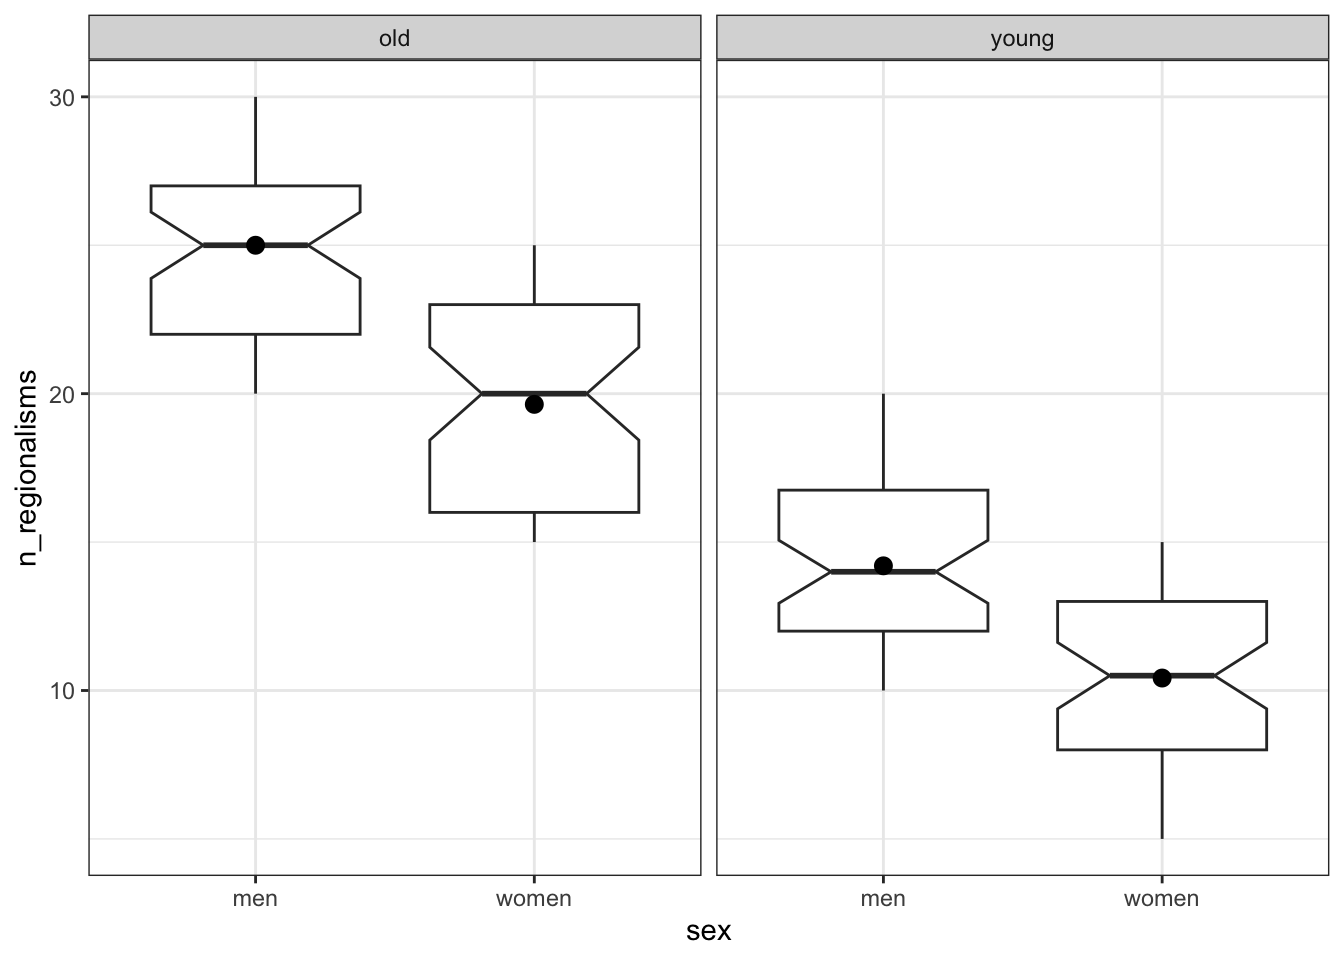
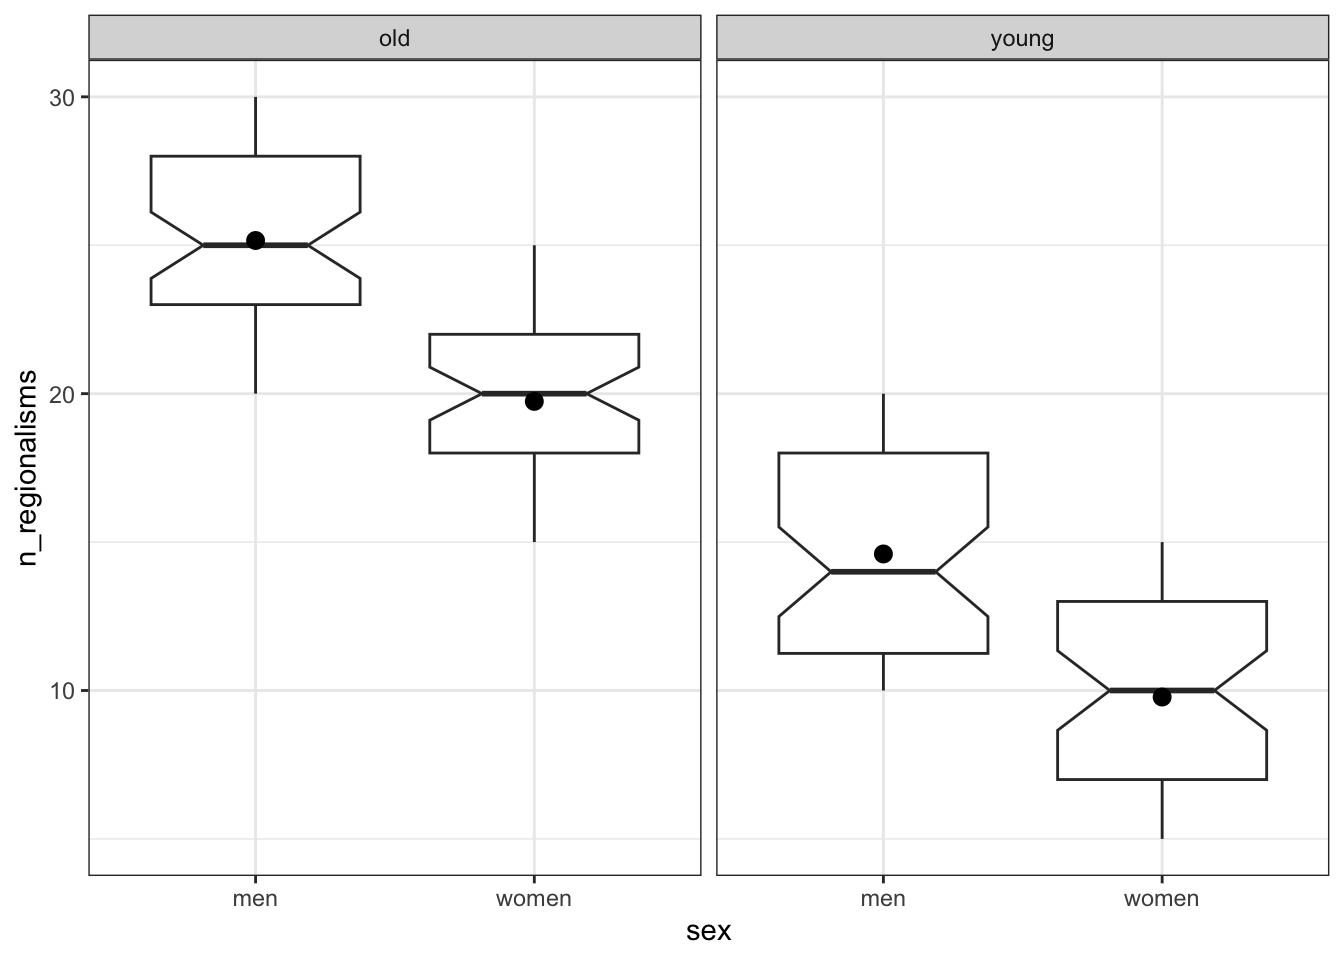
are

diff --git a/docs/lessons/PCA.html b/docs/lessons/PCA.html
@@ -431,29 +431,17 @@ pre > code.sourceCode > span > a:first-child::before { text-decoration: underlin
 </div>
 <p>Now, let’s load in the <code>reg_bnc</code> dataset from the <code>Rling</code> package, which has relative frequencies of different word classes in 69 subregisters of the British National Corpus, organized by six metaregisters: Academic, Fiction, News, Non-academic prose, Spoken, and Miscellaneous.</p>
 <div class="cell">
-<div class="sourceCode cell-code" id="cb2"><pre class="sourceCode r code-with-copy"><code class="sourceCode r"><span id="cb2-1"><a href="#cb2-1" aria-hidden="true" tabindex="-1"></a><span class="fu">library</span>(<span class="st">"tidyverse"</span>)</span></code><button title="Copy to Clipboard" class="code-copy-button"><i class="bi"></i></button></pre></div>
-<div class="cell-output cell-output-stderr">
-<pre><code>── Attaching core tidyverse packages ──────────────────────── tidyverse 2.0.0 ──
-✔ dplyr     1.1.4     ✔ readr     2.1.4
-✔ forcats   1.0.0     ✔ stringr   1.5.1
-✔ ggplot2   3.4.4     ✔ tibble    3.2.1
-✔ lubridate 1.9.2     ✔ tidyr     1.3.1
-✔ purrr     1.0.2     
-── Conflicts ────────────────────────────────────────── tidyverse_conflicts() ──
-✖ dplyr::filter() masks stats::filter()
-✖ dplyr::lag()    masks stats::lag()
-ℹ Use the conflicted package (&lt;http://conflicted.r-lib.org/&gt;) to force all conflicts to become errors</code></pre>
-</div>
-<div class="sourceCode cell-code" id="cb4"><pre class="sourceCode r code-with-copy"><code class="sourceCode r"><span id="cb4-1"><a href="#cb4-1" aria-hidden="true" tabindex="-1"></a><span class="fu">library</span>(<span class="st">"Rling"</span>)</span>
-<span id="cb4-2"><a href="#cb4-2" aria-hidden="true" tabindex="-1"></a><span class="fu">data</span>(reg_bnc)</span></code><button title="Copy to Clipboard" class="code-copy-button"><i class="bi"></i></button></pre></div>
+<div class="sourceCode cell-code" id="cb2"><pre class="sourceCode r code-with-copy"><code class="sourceCode r"><span id="cb2-1"><a href="#cb2-1" aria-hidden="true" tabindex="-1"></a><span class="fu">suppressPackageStartupMessages</span>(<span class="fu">library</span>(<span class="st">"tidyverse"</span>))</span>
+<span id="cb2-2"><a href="#cb2-2" aria-hidden="true" tabindex="-1"></a><span class="fu">library</span>(<span class="st">"Rling"</span>)</span>
+<span id="cb2-3"><a href="#cb2-3" aria-hidden="true" tabindex="-1"></a><span class="fu">data</span>(reg_bnc)</span></code><button title="Copy to Clipboard" class="code-copy-button"><i class="bi"></i></button></pre></div>
 </div>
 <p>In order to run PCA, there needs to be some multicollinearity, otherwise there’s no need to try to reduce the number of dimensions (aka. variables) in order to try to find underlying components.</p>
 <p>We can look at the correlations (Pearson’s <em>r</em>, to be exact) between all pairwise comparisons of variables. A general rule of thumb mentioned by Levshina is that the Pearson’s <em>r</em> correlations should have an absolute value of at least 0.3. Let’s take a look:</p>
 <div class="cell">
-<div class="sourceCode cell-code" id="cb5"><pre class="sourceCode r code-with-copy"><code class="sourceCode r"><span id="cb5-1"><a href="#cb5-1" aria-hidden="true" tabindex="-1"></a>reg_bnc <span class="sc">%&gt;%</span> </span>
-<span id="cb5-2"><a href="#cb5-2" aria-hidden="true" tabindex="-1"></a>  <span class="fu">select</span>(<span class="sc">-</span>Reg) <span class="sc">%&gt;%</span> <span class="co"># keep only continuous data types</span></span>
-<span id="cb5-3"><a href="#cb5-3" aria-hidden="true" tabindex="-1"></a>  <span class="fu">cor</span>() <span class="sc">%&gt;%</span> </span>
-<span id="cb5-4"><a href="#cb5-4" aria-hidden="true" tabindex="-1"></a>  <span class="fu">round</span>(<span class="dv">2</span>)</span></code><button title="Copy to Clipboard" class="code-copy-button"><i class="bi"></i></button></pre></div>
+<div class="sourceCode cell-code" id="cb3"><pre class="sourceCode r code-with-copy"><code class="sourceCode r"><span id="cb3-1"><a href="#cb3-1" aria-hidden="true" tabindex="-1"></a>reg_bnc <span class="sc">%&gt;%</span> </span>
+<span id="cb3-2"><a href="#cb3-2" aria-hidden="true" tabindex="-1"></a>  <span class="fu">select</span>(<span class="sc">-</span>Reg) <span class="sc">%&gt;%</span> <span class="co"># keep only continuous data types</span></span>
+<span id="cb3-3"><a href="#cb3-3" aria-hidden="true" tabindex="-1"></a>  <span class="fu">cor</span>() <span class="sc">%&gt;%</span> </span>
+<span id="cb3-4"><a href="#cb3-4" aria-hidden="true" tabindex="-1"></a>  <span class="fu">round</span>(<span class="dv">2</span>)</span></code><button title="Copy to Clipboard" class="code-copy-button"><i class="bi"></i></button></pre></div>
 <div class="cell-output cell-output-stdout">
 <pre><code>          Ncomm Nprop Vpres Vpast    P1    P2   Adj ConjCoord ConjSub Interject
 Ncomm      1.00  0.23 -0.41 -0.21 -0.83 -0.75  0.86     -0.13   -0.52     -0.67
@@ -484,9 +472,9 @@ Num        1.00</code></pre>
 <p>While not every correlation coefficient is above 0.3, a good number of them are. We could remove variables that have correlation coefficients below 0.3, but let’s keep going with all variables.</p>
 <p>Another way to test for multicollinearity is with a Barlett test, available in the <code>psych</code> R package. The null hypothesis is that the variables are not correlated, so a <em>p</em>-value below 0.05 would indicate that we can reject the null hypothesis of no correlation between the variables.</p>
 <div class="cell">
-<div class="sourceCode cell-code" id="cb7"><pre class="sourceCode r code-with-copy"><code class="sourceCode r"><span id="cb7-1"><a href="#cb7-1" aria-hidden="true" tabindex="-1"></a>reg_bnc <span class="sc">%&gt;%</span> </span>
-<span id="cb7-2"><a href="#cb7-2" aria-hidden="true" tabindex="-1"></a>  <span class="fu">select</span>(<span class="sc">-</span>Reg) <span class="sc">%&gt;%</span> <span class="co"># keep only continuous data types</span></span>
-<span id="cb7-3"><a href="#cb7-3" aria-hidden="true" tabindex="-1"></a>  psych<span class="sc">::</span><span class="fu">cortest.bartlett</span>()</span></code><button title="Copy to Clipboard" class="code-copy-button"><i class="bi"></i></button></pre></div>
+<div class="sourceCode cell-code" id="cb5"><pre class="sourceCode r code-with-copy"><code class="sourceCode r"><span id="cb5-1"><a href="#cb5-1" aria-hidden="true" tabindex="-1"></a>reg_bnc <span class="sc">%&gt;%</span> </span>
+<span id="cb5-2"><a href="#cb5-2" aria-hidden="true" tabindex="-1"></a>  <span class="fu">select</span>(<span class="sc">-</span>Reg) <span class="sc">%&gt;%</span> <span class="co"># keep only continuous data types</span></span>
+<span id="cb5-3"><a href="#cb5-3" aria-hidden="true" tabindex="-1"></a>  psych<span class="sc">::</span><span class="fu">cortest.bartlett</span>()</span></code><button title="Copy to Clipboard" class="code-copy-button"><i class="bi"></i></button></pre></div>
 <div class="cell-output cell-output-stderr">
 <pre><code>R was not square, finding R from data</code></pre>
 </div>
@@ -504,8 +492,8 @@ $df
 <p>Because the <em>p</em>-value is below the alpha level of 0.05, we reject the null hypothesis that there is no correlation between the variables. Let’s keep going!</p>
 <p>Now, let’s run a Principal Components Analysis with the <code>PCA</code> function in the <a href="https://cran.r-project.org/web/packages/FactoMineR/index.html"><code>FactoMineR</code></a> package. We give the <code>PCA</code> function the <code>quali.sup = 1</code> argument to tell it that the first column (i.e., <code>1</code>) is a qualitative (aka. categorical) variable with info about each observation.</p>
 <div class="cell">
-<div class="sourceCode cell-code" id="cb10"><pre class="sourceCode r code-with-copy"><code class="sourceCode r"><span id="cb10-1"><a href="#cb10-1" aria-hidden="true" tabindex="-1"></a><span class="fu">library</span>(<span class="st">"FactoMineR"</span>)</span>
-<span id="cb10-2"><a href="#cb10-2" aria-hidden="true" tabindex="-1"></a>pca1 <span class="ot">&lt;-</span> <span class="fu">PCA</span>(reg_bnc, <span class="at">quali.sup =</span> <span class="dv">1</span>)</span></code><button title="Copy to Clipboard" class="code-copy-button"><i class="bi"></i></button></pre></div>
+<div class="sourceCode cell-code" id="cb8"><pre class="sourceCode r code-with-copy"><code class="sourceCode r"><span id="cb8-1"><a href="#cb8-1" aria-hidden="true" tabindex="-1"></a><span class="fu">library</span>(<span class="st">"FactoMineR"</span>)</span>
+<span id="cb8-2"><a href="#cb8-2" aria-hidden="true" tabindex="-1"></a>pca1 <span class="ot">&lt;-</span> <span class="fu">PCA</span>(reg_bnc, <span class="at">quali.sup =</span> <span class="dv">1</span>)</span></code><button title="Copy to Clipboard" class="code-copy-button"><i class="bi"></i></button></pre></div>
 <div class="cell-output-display">
 <p><img src="PCA_files/figure-html/unnamed-chunk-5-1.png" class="img-fluid" width="672"></p>
 </div>
@@ -516,14 +504,14 @@ $df
 <p>By default, the PCA function draws some plots for us. The “PCA graph of individuals” plots the 69 observations in a two-dimensional space with the first principal component (aka. dimension) on the x-axis labeled with “Dim 1”, and the second principal component on the y-axis. And the “PCA graph of variables” plots the 11 variables on the same two-dimensional space. However, this second plot also has a circle and arrows (aka. vectors). The angles between the arrows and the dashed axes indicate how strongly the variable is correlated with each of the first two principal components, such that, the smaller the angle, the stronger the correlation. For example, “P2” (i.e., second person pronouns) is strongly correlated with the first principal component (aka. loads onto the first principal component), while “past” is not closely correlated with the first principal component. Differently, “past” is strongly correlated with the second principal component (aka. second dimension) because its vector is very close to the dashed line representing that component, while “P2” is not correlated with that component. Two vectors that are close to each are strongly correlated, and may represent the same underlying theoretical construct (whatever that might be). The length of a vector represents how much variation in the variable is accounted for by these two principal components, with a max of 1 (i.e., the circle).</p>
 <p>Let’s draw a better plot of the individuals:</p>
 <div class="cell">
-<div class="sourceCode cell-code" id="cb11"><pre class="sourceCode r code-with-copy"><code class="sourceCode r"><span id="cb11-1"><a href="#cb11-1" aria-hidden="true" tabindex="-1"></a><span class="fu">plot</span>(pca1, <span class="at">cex =</span> <span class="fl">0.8</span>, <span class="at">col.ind=</span><span class="st">"gray"</span>, <span class="at">col.quali=</span><span class="st">"black"</span>)</span></code><button title="Copy to Clipboard" class="code-copy-button"><i class="bi"></i></button></pre></div>
+<div class="sourceCode cell-code" id="cb9"><pre class="sourceCode r code-with-copy"><code class="sourceCode r"><span id="cb9-1"><a href="#cb9-1" aria-hidden="true" tabindex="-1"></a><span class="fu">plot</span>(pca1, <span class="at">cex =</span> <span class="fl">0.8</span>, <span class="at">col.ind=</span><span class="st">"gray"</span>, <span class="at">col.quali=</span><span class="st">"black"</span>)</span></code><button title="Copy to Clipboard" class="code-copy-button"><i class="bi"></i></button></pre></div>
 <div class="cell-output-display">
 <p><img src="PCA_files/figure-html/unnamed-chunk-6-1.png" class="img-fluid" width="672"></p>
 </div>
 </div>
 <p>The eigenvalues indicate how much of the variance is explained by each principal component. (BTW, there are as many principal components as there are variable that go into the PCA.) Let’s look at the eigenvalues and the percentage of variance explained by each PC:</p>
 <div class="cell">
-<div class="sourceCode cell-code" id="cb12"><pre class="sourceCode r code-with-copy"><code class="sourceCode r"><span id="cb12-1"><a href="#cb12-1" aria-hidden="true" tabindex="-1"></a>pca1<span class="sc">$</span>eig</span></code><button title="Copy to Clipboard" class="code-copy-button"><i class="bi"></i></button></pre></div>
+<div class="sourceCode cell-code" id="cb10"><pre class="sourceCode r code-with-copy"><code class="sourceCode r"><span id="cb10-1"><a href="#cb10-1" aria-hidden="true" tabindex="-1"></a>pca1<span class="sc">$</span>eig</span></code><button title="Copy to Clipboard" class="code-copy-button"><i class="bi"></i></button></pre></div>
 <div class="cell-output cell-output-stdout">
 <pre><code>        eigenvalue percentage of variance cumulative percentage of variance
 comp 1  5.06829360             46.0753964                          46.07540
@@ -539,42 +527,39 @@ comp 10 0.10877509              0.9888644                          99.20614
 comp 11 0.08732419              0.7938563                         100.00000</code></pre>
 </div>
 </div>
-<p>Levsina (2015, p.&nbsp;355) mentions two rules of thumb about how many PCs to keep. The Kaiser Criterion proposes that PCs whose eigenvalue is greater than 1 be kept, while another rule of thumb is less strict, with a threshold of 0.7. Others take a percentage approach and propose that the first N number of PCs that explain M% of the variance be kept, for example, 80% or 90% of the variance.</p>
+<p>Levsina (2015, p.&nbsp;355) mentions two rules of thumb about how many PCs to keep. The Kaiser Criterion proposes that PCs whose eigenvalue are greater than 1 be kept, while another rule of thumb is less strict, with a threshold of 0.7. Others take a percentage approach and propose that the first N number of PCs that explain M% of the variance be kept, for example, 80% or 90% of the variance.</p>
 <p>A scree plot is simply a barplot with the amount of variance explained by each PC. Here’s a base R way to draw one:</p>
 <div class="cell">
-<div class="sourceCode cell-code" id="cb14"><pre class="sourceCode r code-with-copy"><code class="sourceCode r"><span id="cb14-1"><a href="#cb14-1" aria-hidden="true" tabindex="-1"></a><span class="fu">barplot</span>(pca1<span class="sc">$</span>eig[,<span class="dv">2</span>], <span class="at">names =</span> <span class="dv">1</span><span class="sc">:</span><span class="fu">nrow</span>(pca1<span class="sc">$</span>eig), <span class="at">xlab =</span> <span class="st">"Components"</span>, <span class="at">ylab =</span> <span class="st">"Percentage of variance explained"</span>)</span></code><button title="Copy to Clipboard" class="code-copy-button"><i class="bi"></i></button></pre></div>
+<div class="sourceCode cell-code" id="cb12"><pre class="sourceCode r code-with-copy"><code class="sourceCode r"><span id="cb12-1"><a href="#cb12-1" aria-hidden="true" tabindex="-1"></a><span class="fu">barplot</span>(pca1<span class="sc">$</span>eig[,<span class="dv">2</span>], <span class="at">names =</span> <span class="dv">1</span><span class="sc">:</span><span class="fu">nrow</span>(pca1<span class="sc">$</span>eig), <span class="at">xlab =</span> <span class="st">"Components"</span>, <span class="at">ylab =</span> <span class="st">"Percentage of variance explained"</span>)</span></code><button title="Copy to Clipboard" class="code-copy-button"><i class="bi"></i></button></pre></div>
 <div class="cell-output-display">
 <p><img src="PCA_files/figure-html/unnamed-chunk-8-1.png" class="img-fluid" width="672"></p>
 </div>
 </div>
 <p>And here’s a way with the <code>factoextra</code> package:</p>
 <div class="cell">
-<div class="sourceCode cell-code" id="cb15"><pre class="sourceCode r code-with-copy"><code class="sourceCode r"><span id="cb15-1"><a href="#cb15-1" aria-hidden="true" tabindex="-1"></a><span class="fu">library</span>(<span class="st">"factoextra"</span>)</span></code><button title="Copy to Clipboard" class="code-copy-button"><i class="bi"></i></button></pre></div>
+<div class="sourceCode cell-code" id="cb13"><pre class="sourceCode r code-with-copy"><code class="sourceCode r"><span id="cb13-1"><a href="#cb13-1" aria-hidden="true" tabindex="-1"></a><span class="fu">library</span>(<span class="st">"factoextra"</span>)</span></code><button title="Copy to Clipboard" class="code-copy-button"><i class="bi"></i></button></pre></div>
 <div class="cell-output cell-output-stderr">
 <pre><code>Welcome! Want to learn more? See two factoextra-related books at https://goo.gl/ve3WBa</code></pre>
 </div>
-<div class="sourceCode cell-code" id="cb17"><pre class="sourceCode r code-with-copy"><code class="sourceCode r"><span id="cb17-1"><a href="#cb17-1" aria-hidden="true" tabindex="-1"></a><span class="fu">fviz_screeplot</span>(pca1, <span class="at">addlabels =</span> T)</span></code><button title="Copy to Clipboard" class="code-copy-button"><i class="bi"></i></button></pre></div>
+<div class="sourceCode cell-code" id="cb15"><pre class="sourceCode r code-with-copy"><code class="sourceCode r"><span id="cb15-1"><a href="#cb15-1" aria-hidden="true" tabindex="-1"></a><span class="fu">fviz_screeplot</span>(pca1, <span class="at">addlabels =</span> T)</span></code><button title="Copy to Clipboard" class="code-copy-button"><i class="bi"></i></button></pre></div>
 <div class="cell-output-display">
 <p><img src="PCA_files/figure-html/unnamed-chunk-9-1.png" class="img-fluid" width="672"></p>
 </div>
 </div>
-<p>Now, let’s get the contribution of each variable to the PCs:</p>
+<p>Now, let’s get the contribution of each variable to the first five PCs:</p>
 <div class="cell">
-<div class="sourceCode cell-code" id="cb18"><pre class="sourceCode r code-with-copy"><code class="sourceCode r"><span id="cb18-1"><a href="#cb18-1" aria-hidden="true" tabindex="-1"></a><span class="fu">library</span>(<span class="st">"corrplot"</span>)</span></code><button title="Copy to Clipboard" class="code-copy-button"><i class="bi"></i></button></pre></div>
-<div class="cell-output cell-output-stderr">
-<pre><code>corrplot 0.92 loaded</code></pre>
-</div>
-<div class="sourceCode cell-code" id="cb20"><pre class="sourceCode r code-with-copy"><code class="sourceCode r"><span id="cb20-1"><a href="#cb20-1" aria-hidden="true" tabindex="-1"></a>var <span class="ot">&lt;-</span> <span class="fu">get_pca_var</span>(pca1)</span>
-<span id="cb20-2"><a href="#cb20-2" aria-hidden="true" tabindex="-1"></a><span class="fu">corrplot</span>(var<span class="sc">$</span>cos2)</span></code><button title="Copy to Clipboard" class="code-copy-button"><i class="bi"></i></button></pre></div>
+<div class="sourceCode cell-code" id="cb16"><pre class="sourceCode r code-with-copy"><code class="sourceCode r"><span id="cb16-1"><a href="#cb16-1" aria-hidden="true" tabindex="-1"></a><span class="fu">suppressPackageStartupMessages</span>(<span class="fu">library</span>(<span class="st">"corrplot"</span>))</span>
+<span id="cb16-2"><a href="#cb16-2" aria-hidden="true" tabindex="-1"></a>var <span class="ot">&lt;-</span> <span class="fu">get_pca_var</span>(pca1)</span>
+<span id="cb16-3"><a href="#cb16-3" aria-hidden="true" tabindex="-1"></a><span class="fu">corrplot</span>(var<span class="sc">$</span>cos2)</span></code><button title="Copy to Clipboard" class="code-copy-button"><i class="bi"></i></button></pre></div>
 <div class="cell-output-display">
 <p><img src="PCA_files/figure-html/unnamed-chunk-10-1.png" class="img-fluid" width="672"></p>
 </div>
 </div>
 <p>Here’s another view of each PC:</p>
 <div class="cell">
-<div class="sourceCode cell-code" id="cb21"><pre class="sourceCode r code-with-copy"><code class="sourceCode r"><span id="cb21-1"><a href="#cb21-1" aria-hidden="true" tabindex="-1"></a><span class="cf">for</span> (i <span class="cf">in</span> <span class="dv">1</span><span class="sc">:</span><span class="dv">5</span>) {</span>
-<span id="cb21-2"><a href="#cb21-2" aria-hidden="true" tabindex="-1"></a>  <span class="fu">plot</span>(<span class="fu">fviz_contrib</span>(pca1, <span class="at">choice =</span> <span class="st">"var"</span>, <span class="at">axes =</span> i))</span>
-<span id="cb21-3"><a href="#cb21-3" aria-hidden="true" tabindex="-1"></a>}</span></code><button title="Copy to Clipboard" class="code-copy-button"><i class="bi"></i></button></pre></div>
+<div class="sourceCode cell-code" id="cb17"><pre class="sourceCode r code-with-copy"><code class="sourceCode r"><span id="cb17-1"><a href="#cb17-1" aria-hidden="true" tabindex="-1"></a><span class="cf">for</span> (i <span class="cf">in</span> <span class="dv">1</span><span class="sc">:</span><span class="dv">5</span>) {</span>
+<span id="cb17-2"><a href="#cb17-2" aria-hidden="true" tabindex="-1"></a>  <span class="fu">plot</span>(<span class="fu">fviz_contrib</span>(pca1, <span class="at">choice =</span> <span class="st">"var"</span>, <span class="at">axes =</span> i))</span>
+<span id="cb17-3"><a href="#cb17-3" aria-hidden="true" tabindex="-1"></a>}</span></code><button title="Copy to Clipboard" class="code-copy-button"><i class="bi"></i></button></pre></div>
 <div class="cell-output-display">
 <p><img src="PCA_files/figure-html/unnamed-chunk-11-1.png" class="img-fluid" width="672"></p>
 </div>

diff --git a/docs/lessons/interaction.html b/docs/lessons/interaction.html
@@ -642,24 +642,24 @@ lm(formula = n_regionalisms ~ age_group + sex + age_group:sex,
 
 Residuals:
    Min     1Q Median     3Q    Max 
- -5.42  -3.00  -0.20   2.58   5.80 
+-5.160 -2.780 -0.160  2.935  5.400 
 
 Coefficients:
                         Estimate Std. Error t value Pr(&gt;|t|)    
-(Intercept)              25.0000     0.4535  55.124  &lt; 2e-16 ***
-age_groupyoung          -10.8000     0.6414 -16.839  &lt; 2e-16 ***
-sexwomen                 -5.3600     0.6414  -8.357 1.17e-14 ***
-age_groupyoung:sexwomen   1.5800     0.9070   1.742   0.0831 .  
+(Intercept)              25.1600     0.4466  56.333  &lt; 2e-16 ***
+age_groupyoung          -10.5600     0.6316 -16.719  &lt; 2e-16 ***
+sexwomen                 -5.4200     0.6316  -8.581 2.86e-15 ***
+age_groupyoung:sexwomen   0.6000     0.8933   0.672    0.503    
 ---
 Signif. codes:  0 '***' 0.001 '**' 0.01 '*' 0.05 '.' 0.1 ' ' 1
 
-Residual standard error: 3.207 on 196 degrees of freedom
-Multiple R-squared:  0.7512,    Adjusted R-squared:  0.7474 
-F-statistic: 197.2 on 3 and 196 DF,  p-value: &lt; 2.2e-16</code></pre>
+Residual standard error: 3.158 on 196 degrees of freedom
+Multiple R-squared:  0.7709,    Adjusted R-squared:  0.7674 
+F-statistic: 219.9 on 3 and 196 DF,  p-value: &lt; 2.2e-16</code></pre>
 </div>
 <div class="sourceCode cell-code" id="cb23"><pre class="sourceCode r code-with-copy"><code class="sourceCode r"><span id="cb23-1"><a href="#cb23-1" aria-hidden="true" tabindex="-1"></a><span class="fu">AIC</span>(m3)</span></code><button title="Copy to Clipboard" class="code-copy-button"><i class="bi"></i></button></pre></div>
 <div class="cell-output cell-output-stdout">
-<pre><code>[1] 1039.656</code></pre>
+<pre><code>[1] 1033.533</code></pre>
 </div>
 </div>
 <p>The interaction term was <strong>not</strong> selected as making a significant contribution to the prediction of the number of regionalisms in this second set of fictitious data.</p>
